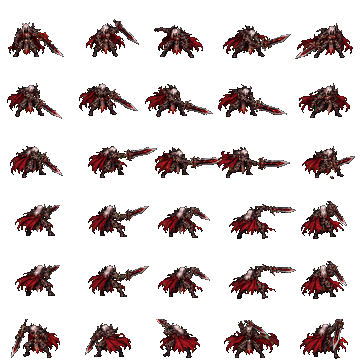
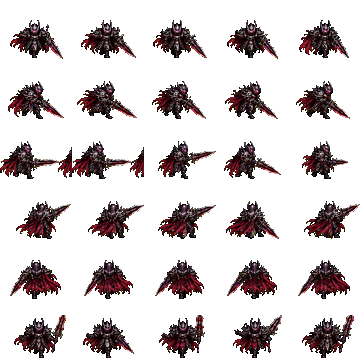
Морвен: новая атака в шлеме и нарисованные эффекты (удар мрака, тёмная вспышка, печать тьмы)
Claude-Session: https://claude.ai/code/session_01AmWdLgRH5KkZouVun3YtrH

diff --git a/public/js/herofx.js b/public/js/herofx.js
@@ -165,17 +165,6 @@ window.HeroFx = (() => {
       }
       return true;
     },
-    // Морвен: тяжёлый взмах тёмного меча — чёрно-багровый серп и тлеющие искры тьмы
-    morvenKnight(sc, a, x, y, f) {
-      a.combo = ((a.combo || 0) + 1) % 2;
-      const ang = Math.atan2(y - a.c.y, x - a.c.x), dist = Math.hypot(x - a.c.x, y - a.c.y);
-      if (!heroAnim(sc, a, x, y)) lunge(sc, a, x - a.c.x, y - a.c.y, 11, 90); // нарисованные кадры взмаха, иначе рывок
-      slash(sc, a.c.x, a.c.y - 10, ang, { r: Math.max(32, Math.min(50, dist * 0.9)), w: 9, sweep: 2.9, col: 0x2a0a1a, edge: 0xff3a4a, glow: 0x9b1a3a, flip: a.combo === 1, dur: 260 });
-      sparks(sc, x, y - 6, [0xff3a4a, 0x9b4dff, 0x3a0a2a], 10, { max: 180, life: 420, gravity: -120 });
-      flash(sc, x, y - 6, 16, 0xff3a4a, 200, 0.5);
-      if (f.crit) { shock(sc, x, y + 4, 34, 0xff3a4a, { w: 4 }); shake(sc, f, 90, 0.005); }
-      return true;
-    },
   };
   // Удар по нарисованным листам для героев без собственной функции: кадры атаки + серп + вспышка
   function sheetAttack(sc, a, x, y, f) {
@@ -474,6 +463,27 @@ window.HeroFx = (() => {
           fxPlay(sc, 'sanguine', 'bloodBond', (f.x + x) / 2, (f.y + y) / 2 - 12, { rot: ang, scale: Math.max(0.8, d / 60) });
           fxPlay(sc, 'sanguine', 'hit', x, y - 10, { scale: 0.8 });
         }
+        return true;
+      },
+    },
+    morvenKnight: {
+      gloomStrike(sc, f, c) {
+        heroAnim(sc, c, f.x, f.y);
+        sc.time.delayedCall(120, () => { fxPlay(sc, 'morvenKnight', 'gloomStrike', f.x, f.y - 22, { scale: 1.3 }); fxPlay(sc, 'morvenKnight', 'hit', f.x, f.y - 10, { scale: 1 }); shake(sc, f, 150, 0.007); });
+        return true;
+      },
+      // Тёмная вспышка: сила — по накопленному мраку
+      darkBurst(sc, f, c) {
+        heroAnim(sc, c, undefined, undefined, true);
+        const R = f.r || 130, k = 1 + Math.min(1, ((f.power || 1) - 1) / 4) * 0.4;
+        fxPlay(sc, 'morvenKnight', 'darkBurst', f.x, f.y - 16, { scale: (R / 60) * k });
+        sc.time.delayedCall(150, () => fxPlay(sc, 'morvenKnight', 'aura', f.x, f.y, { scale: R / 60 }));
+        shake(sc, f, 240, 0.011);
+        return true;
+      },
+      darkSeal(sc, f, c) {
+        heroAnim(sc, c, f.x, f.y);
+        fxPlay(sc, 'morvenKnight', 'darkSeal', f.x, f.y - 10, { scale: 1.2 });
         return true;
       },
     },

diff --git a/public/js/skins.js b/public/js/skins.js
@@ -302,8 +302,10 @@ window.Skins = (() => {
     },
     morvenKnight: {
       sheet: 'assets/heroes/morvenKnight_sheet.png', portrait: 'assets/heroes/morvenKnight_portrait.png', w: 36, h: 48, frames: 5,
-      // Атака: 6 рядов — вниз, вниз-вправо, вправо, вверх-вправо, вверх (= вверх-вправо) и поза умения; эффектов пока нет
+      // Атака: 6 рядов — вниз, вниз-вправо, вправо, вверх-вправо, вверх и поза умения (меч вверх)
       attack: { sheet: 'assets/heroes/morvenKnight_attack.png', w: 72, h: 60, frames: 5, rows: 6, cast: 5 },
+      // slash — тёмный серп; gloomStrike — клинок тьмы в землю; darkBurst — взрыв мрака; darkSeal — печать; aura — тёмное кольцо
+      fx: { sheet: 'assets/heroes/morvenKnight_fx.png', size: 72, frames: 6, rows: ['slash', 'hit', 'gloomStrike', 'darkBurst', 'darkSeal', 'aura'] },
     },
   };
   // Нарисованные монстры: лист кадров в ряд (монстр смотрит вправо), какие кадры — ходьба, какие — удар

diff --git a/README.md b/README.md
@@ -304,7 +304,7 @@ docker run -p 3000:3000 --env-file .env -v $(pwd)/data:/app/data tg-mmorpg
 
 Картинку от ИИ-генератора (сетка 7×5 и портрет) режет `tools/cut_skin.py`: он убирает нарисованную «шахматку», выравнивает кадры по ногам и добавляет недостающее направление зеркалом. Затем героя нужно вписать в `public/js/skins.js`. Герои без записи там остаются процедурными.
 
-Кадры атаки и эффекты режет `tools/cut_fx.py`: из одной картинки (слева герой 6 рядов × 5 кадров — атака вниз, вниз-вправо, вправо, вверх-вправо, вверх и поза умения; справа эффекты по 6 кадров в ряду) получаются `<id>_attack.png` и `<id>_fx.png`. В `skins.js` у героя добавляются поля `attack` и `fx` (имена рядов эффектов), а `public/js/herofx.js` проигрывает их на ударах и умениях. Сейчас нарисованы Бохай, Вебранд, Вайалд, Аламариэль, Урсус, Найри, Малакор, Кельт’о, Брендан, Кира, Кассиан, Зу’кра, Нимуэ, Талиесин, Аурелиус, Валериан, Юстина, Джакомо, Орион, Фаэлин, Илирия, Тибор, Ингрид, Талмира, Сангвейн, Зефира, Эмет, Селена, Сирокко, Блейз, Элнаэрис, Волдан, Галатея, Итилиор, Флэйр, Кальдеро, Торден, Медея, Ву’гаж, Брильда, Ле Блан, Гардин, Гидеон и Морвен; у всех есть кадры атаки, у всех, кроме Морвена, — свои эффекты. У героев дальнего боя ряд `bolt` — летящий снаряд обычной атаки (`HeroFx.shoot`).
+Кадры атаки и эффекты режет `tools/cut_fx.py`: из одной картинки (слева герой 6 рядов × 5 кадров — атака вниз, вниз-вправо, вправо, вверх-вправо, вверх и поза умения; справа эффекты по 6 кадров в ряду) получаются `<id>_attack.png` и `<id>_fx.png`. В `skins.js` у героя добавляются поля `attack` и `fx` (имена рядов эффектов), а `public/js/herofx.js` проигрывает их на ударах и умениях. Сейчас нарисованы Бохай, Вебранд, Вайалд, Аламариэль, Урсус, Найри, Малакор, Кельт’о, Брендан, Кира, Кассиан, Зу’кра, Нимуэ, Талиесин, Аурелиус, Валериан, Юстина, Джакомо, Орион, Фаэлин, Илирия, Тибор, Ингрид, Талмира, Сангвейн, Зефира, Эмет, Селена, Сирокко, Блейз, Элнаэрис, Волдан, Галатея, Итилиор, Флэйр, Кальдеро, Торден, Медея, Ву’гаж, Брильда, Ле Блан, Гардин, Гидеон и Морвен; у всех есть кадры атаки и свои эффекты. У героев дальнего боя ряд `bolt` — летящий снаряд обычной атаки (`HeroFx.shoot`).
 
 ## Нарисованная графика миров
 
